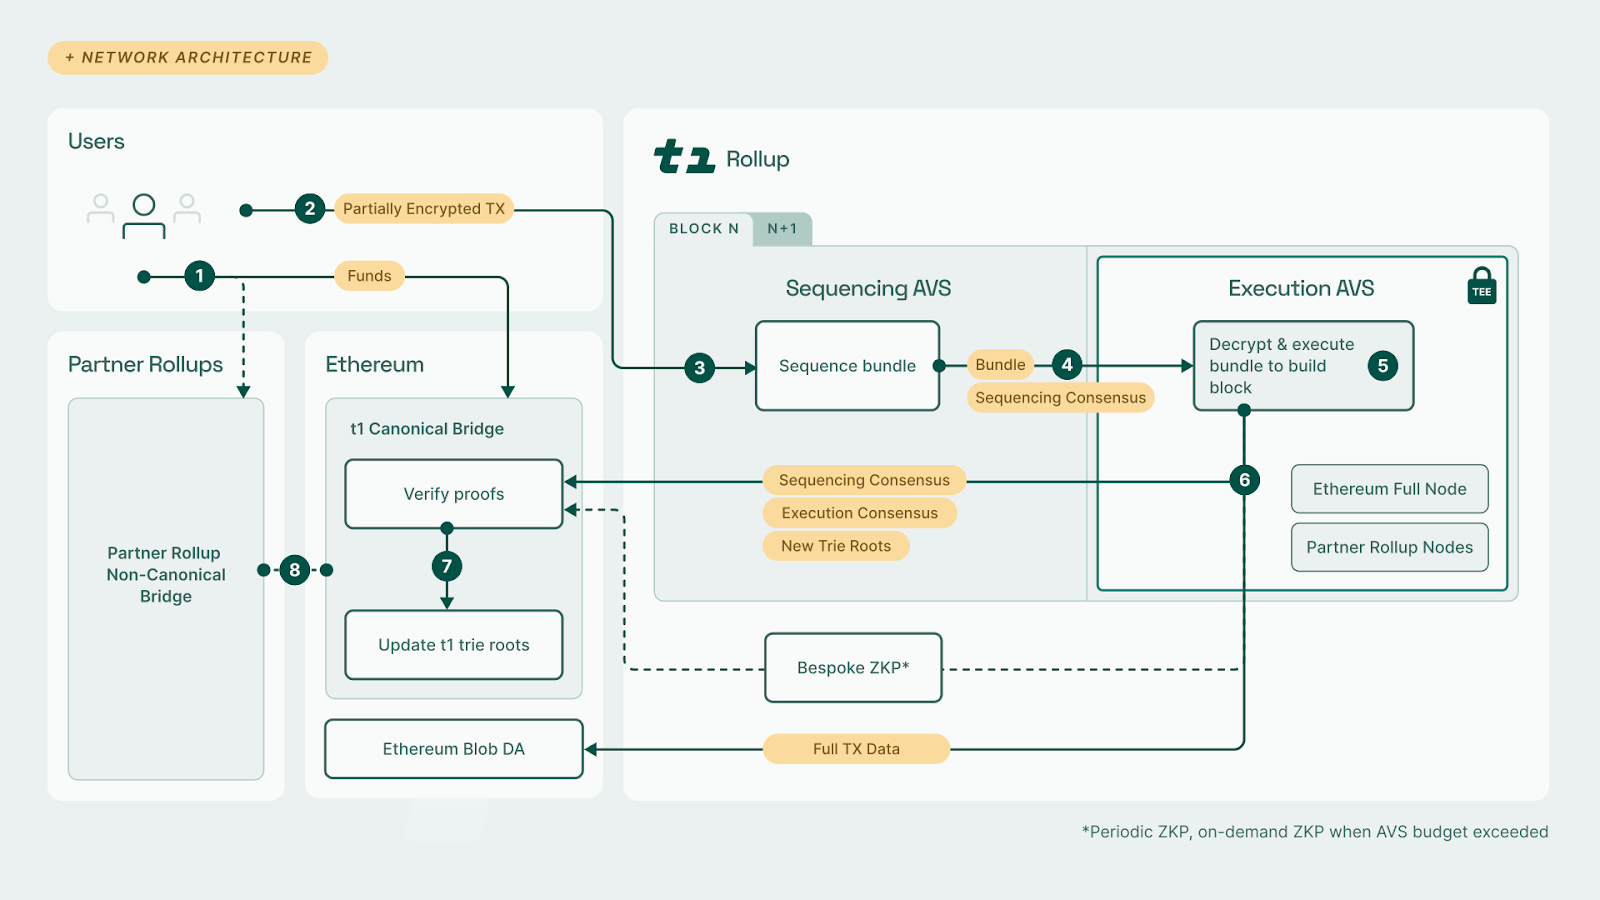
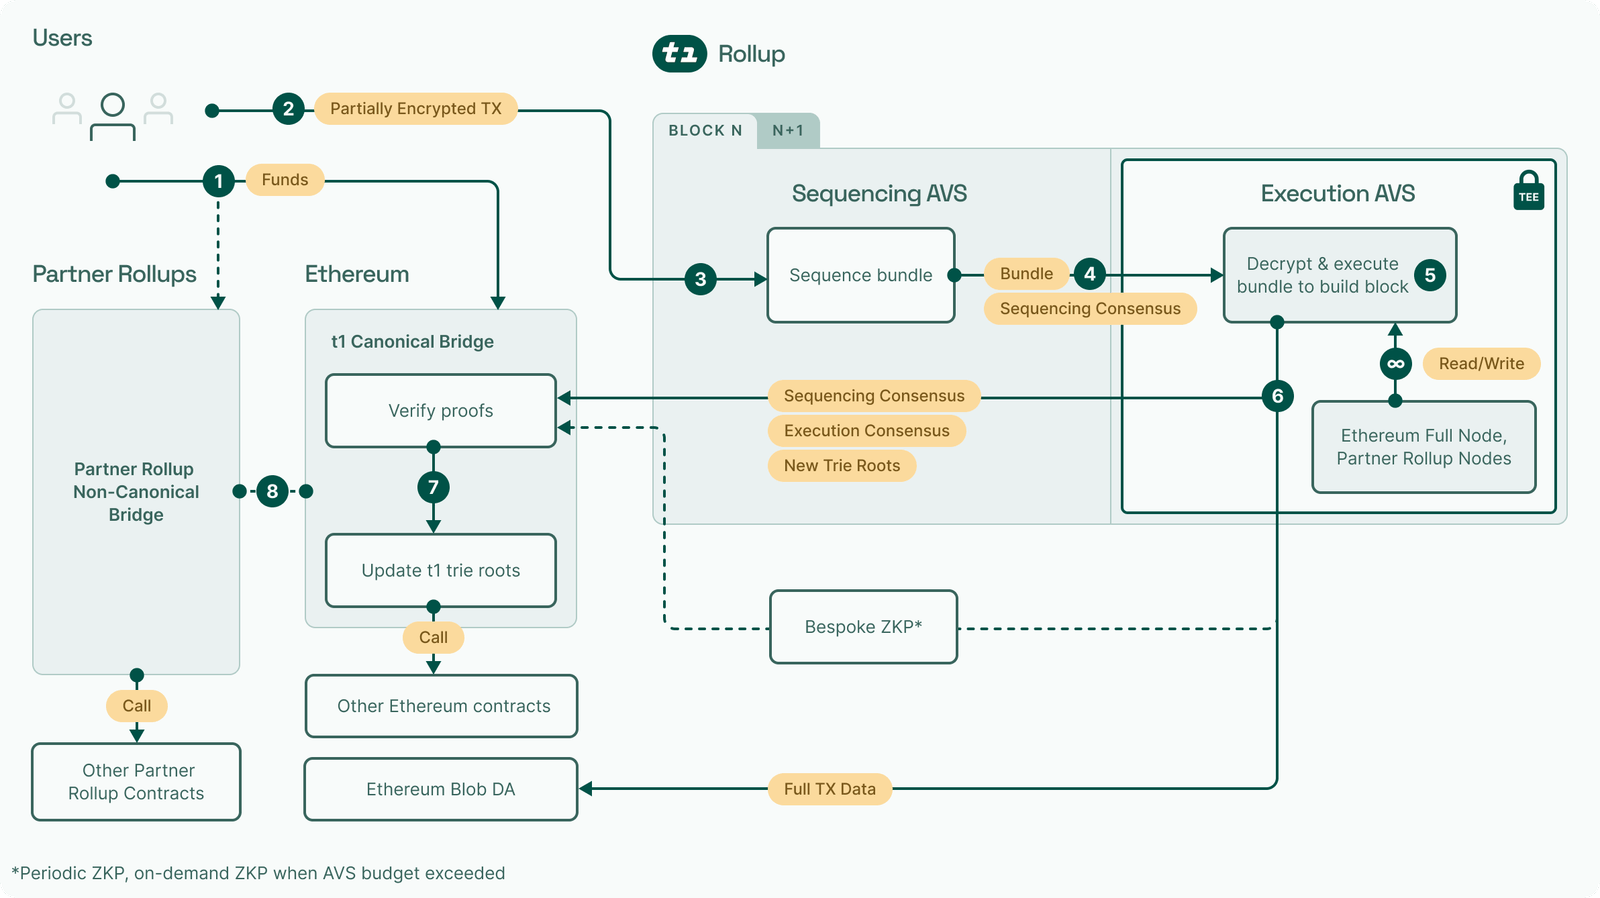
protocol

diff --git a/docs/concepts/protocol/architecture.md b/docs/concepts/protocol/architecture.md
@@ -4,7 +4,7 @@ title: Architecture
 sidebar_position: 4
 ---
 
-t1 is a TEE-enabled cross-chain application infrastructure that leverages defense-in-depth to achieve real-time proving. In the short-term (v1), we achieve RTP with TEE proofs. Longer term, t1 will become a permissionless and decentralized network that will complement TEE proofs with crypto-economic security and bespoke zero-knowledge proofs. You can read more about our long term architecture in our litepaper.
+t1 is a TEE-enabled cross-chain application infrastructure that leverages defense-in-depth to achieve real-time proving. In the short-term (v1), we achieve RTP with TEE proofs. Longer term, t1 will become a permissionless and decentralized network that will complement TEE proofs with crypto-economic security and bespoke zero-knowledge proofs. You can read more about our long term architecture in our [litepaper](https://docs.t1protocol.com/concepts/resources).
 
 ### Network Architecture v1
 
@@ -28,7 +28,7 @@ _Note: Suppose, Alice had desired to withdraw funds, in step 2. She may now subm
 
 1. A user, Alice, deposits funds to a t1 bridge contract on Ethereum or on a _Partner Rollup_. Once the deposit is confirmed on the source chain, it gets processed by t1 and Alice gets her funds credited towards her aggregate t1 balance.
 
-2. Alice changes her wallet’s network to t1, creates a t1-native transaction (with [some fields encrypted](https://www.notion.so/Litepaper-9a2cc4d321ce4a08a4905aa809fb436e?pvs=21) to the shared rotating TEE pubkey), uses her wallet to sign it, and submits it to the network (i.e. the t1 mempool); this may or may not be a specially-treated withdrawal transaction (to Ethereum or a _Partner Rollup_).
+2. Alice changes her wallet’s network to t1, creates a t1-native transaction (with some fields encrypted) to the shared rotating TEE pubkey), uses her wallet to sign it, and submits it to the network (i.e. the t1 mempool); this may or may not be a specially-treated withdrawal transaction (to Ethereum or a _Partner Rollup_).
 3. A t1 _Sequencer_ receives and gossips such a partially-blind transaction to other _Sequencers_ in the t1 _Sequencing AVS_ network.
 
 4. After collecting transactions for one t1 slot (currently set to one second), the slot-leading _Sequencer_ proposes an ordering (a blind non-executed bundle). The rest of _Sequencers_ vote on it using Espresso HotShot, to form _Sequencing Consensus_. This bundle and a proof of _Sequencing Consensus_ is then passed on to the _Execution AVS_ network.
